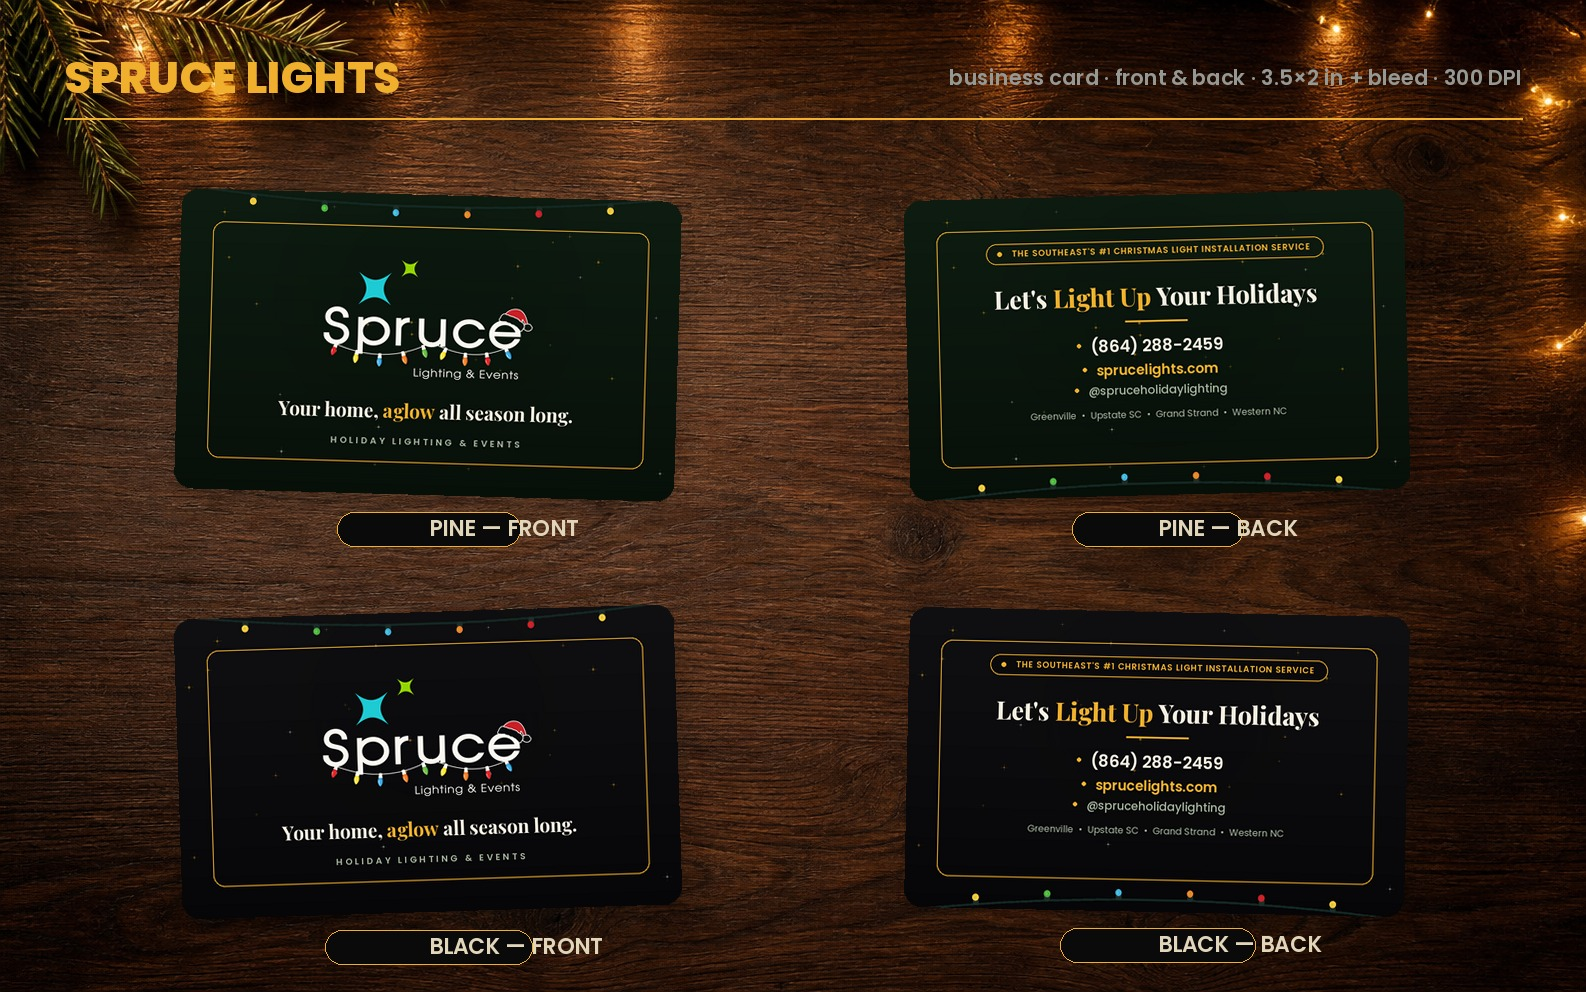
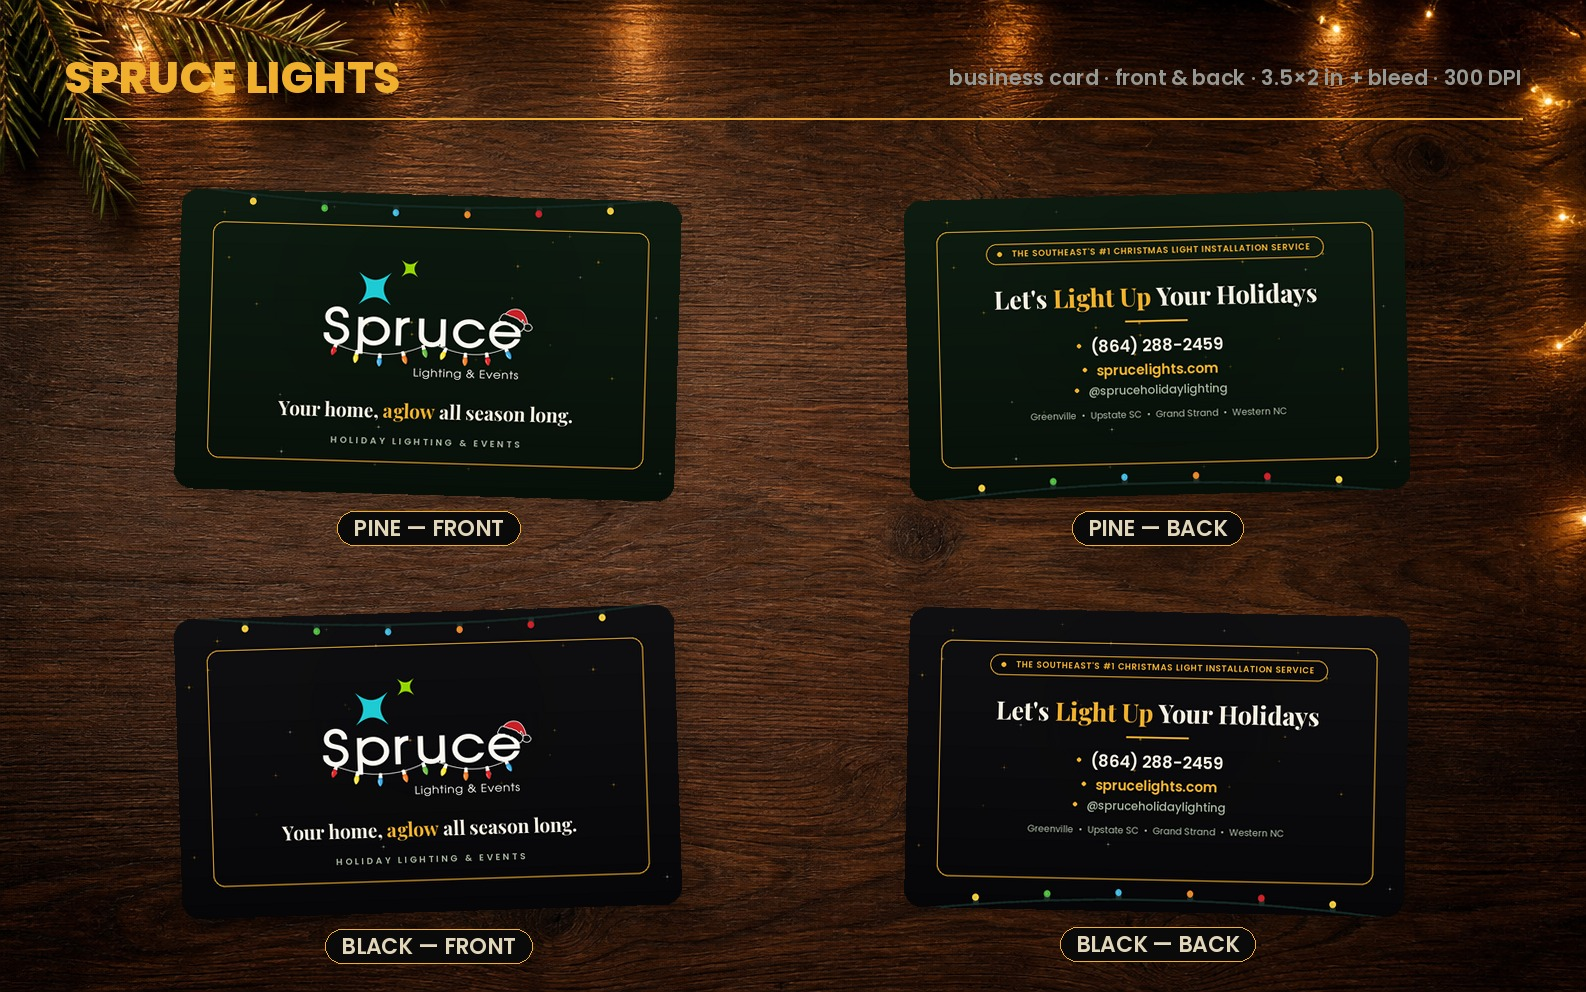
Fix front/back sheet labels: center text within pills (anchor ignored under rotation)

diff --git a/mockup_fronts_backs.py b/mockup_fronts_backs.py
@@ -40,11 +40,13 @@ def sheet(plate_path, out, header, sub, cards, label_rgb, accent):
         scene.alpha_composite(sh.filter(ImageFilter.GaussianBlur(13)))
         scene.alpha_composite(c, (int(cx - c.width // 2), int(cy - c.height // 2)))
         dd = ImageDraw.Draw(scene)
-        lw = dd.textlength(label, font=F(22))
-        dd.rounded_rectangle([cx - lw / 2 - 16, cy + c.height // 2 + 10,
-                              cx + lw / 2 + 16, cy + c.height // 2 + 44], 17,
+        f_lab = F(22)
+        lw = dd.textlength(label, font=f_lab)
+        bx0, by0, bx1, by1 = dd.textbbox((0, 0), label, font=f_lab)
+        ly = cy + c.height // 2 + 26
+        dd.rounded_rectangle([cx - lw / 2 - 16, ly - 17, cx + lw / 2 + 16, ly + 17], 17,
                              fill=(10, 10, 10, 130), outline=accent + (90,), width=1)
-        dd.text((cx, cy + c.height // 2 + 26), label, font=F(22), fill=label_rgb, anchor="lm")
+        dd.text((cx - lw / 2 - bx0, ly - (by0 + by1) / 2), label, font=f_lab, fill=label_rgb)
 
     (front, back, name, af, ab) = cards[0]
     place(front, col_cx[0], row_cy[0], af, f"{name} — FRONT")
